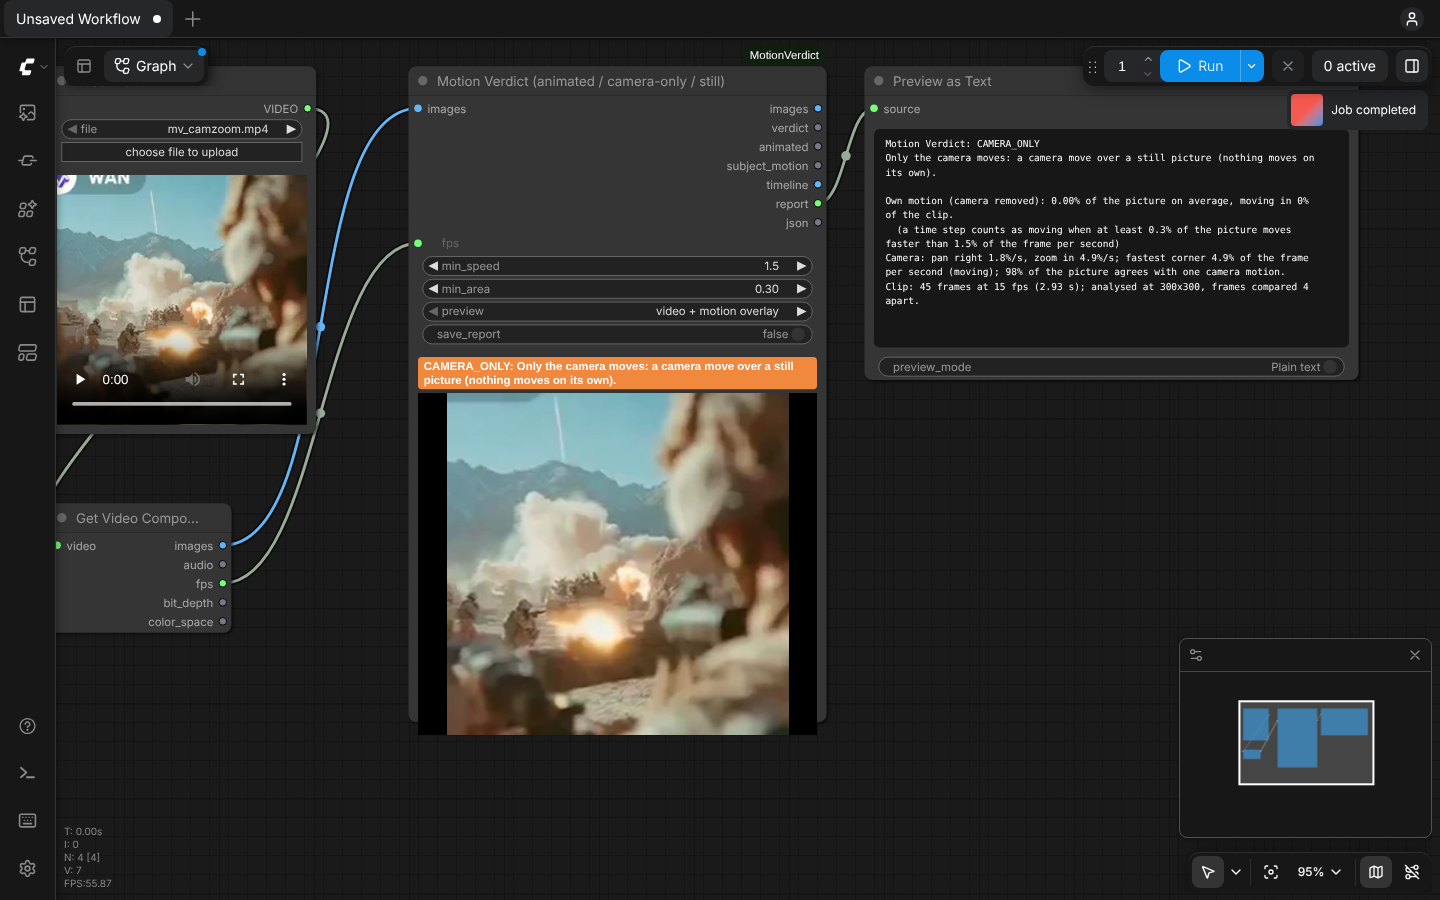
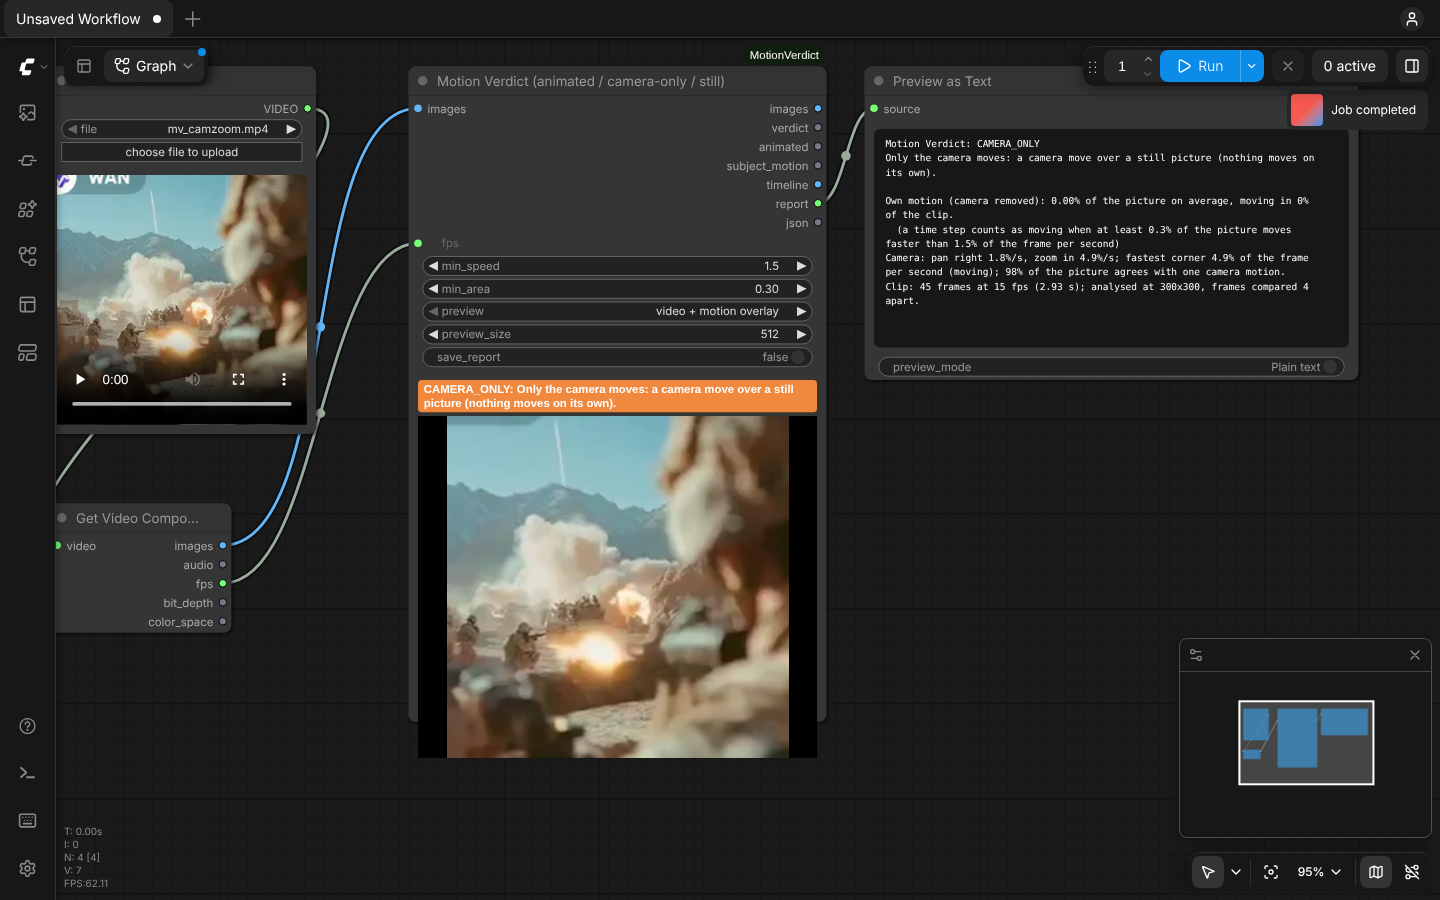
Preview size 256-1440 px (preview_size); disk-free preview verified
- New preview_size INT input (default 512, 256-1440, never upscales).
- Verified: a full run with save_report off writes no file anywhere; 1440x810 preview
  plays in the real UI. 28/28 unit tests pass. Example workflow re-exported from the UI.

Claude-Session: https://claude.ai/code/session_012XJGPmtVvewrCnuKrPcEJk

Changed region(s): [[0.2812, 0.3733, 0.5938, 0.84]]

diff --git a/tests/ui_run.js b/tests/ui_run.js
@@ -1,6 +1,7 @@
 // Drive the real ComfyUI frontend in headless Chromium (Playwright for Node).
 //
 //   node tests/ui_run.js <video in ComfyUI/input> <screenshot.png> [<exported_workflow.json>] [--url URL]
+//                        [--preview-size N]
 //
 // Builds Load Video -> Get Video Components -> Motion Verdict -> Preview Any in the page, exports the workflow
 // the way the UI saves it, queues it, waits for the verdict badge and the on-node preview video, takes a
@@ -11,6 +12,8 @@ const { chromium } = require("playwright");
 const args = process.argv.slice(2);
 const urlAt = args.indexOf("--url");
 const url = urlAt >= 0 ? args.splice(urlAt, 2)[1] : "http://127.0.0.1:8188";
+const sizeAt = args.indexOf("--preview-size");
+const previewSize = sizeAt >= 0 ? Number(args.splice(sizeAt, 2)[1]) : null;
 const [video, shot, wfPath] = args;
 const BADGE = /^(ANIMATED|PARTLY_ANIMATED|CAMERA_ONLY|STILL|UNKNOWN):/;
 
@@ -26,7 +29,7 @@ const BADGE = /^(ANIMATED|PARTLY_ANIMATED|CAMERA_ONLY|STILL|UNKNOWN):/;
   await page.waitForFunction(() => (window.app ?? window.comfyAPI?.app?.app)?.graph, null, { timeout: 120000 });
   await page.waitForTimeout(3000);
   for (let i = 0; i < 3; i++) await page.keyboard.press("Escape"); // close the first-run templates dialog
-  const wf = await page.evaluate((file) => {
+  const wf = await page.evaluate(([file, size]) => {
     const app = window.app ?? window.comfyAPI.app.app;
     app.graph.clear();
     const add = (type, x, y) => { const n = LiteGraph.createNode(type); n.pos = [x, y]; app.graph.add(n); return n; };
@@ -35,6 +38,7 @@ const BADGE = /^(ANIMATED|PARTLY_ANIMATED|CAMERA_ONLY|STILL|UNKNOWN):/;
     const mv = add("MotionVerdict", 400, 60);
     const show = add("PreviewAny", 880, 60);
     load.widgets.find((w) => w.name === "file").value = file;
+    if (size) mv.widgets.find((w) => w.name === "preview_size").value = size;
     load.connect(0, parts, 0);
     parts.connect(0, mv, 0);
     parts.connect(2, mv, mv.inputs.findIndex((i) => i.name === "fps"));
@@ -43,7 +47,7 @@ const BADGE = /^(ANIMATED|PARTLY_ANIMATED|CAMERA_ONLY|STILL|UNKNOWN):/;
     show.setSize([520, 300]);
     app.graph.setDirtyCanvas(true, true);
     return JSON.stringify(app.graph.serialize(), null, 1);
-  }, video);
+  }, [video, previewSize]);
   if (wfPath) fs.writeFileSync(wfPath, wf + "\n");
   await page.evaluate(() => (window.app ?? window.comfyAPI.app.app).queuePrompt(0, 1));
   let ok = true;

diff --git a/motion_verdict/node.py b/motion_verdict/node.py
@@ -15,7 +15,7 @@ class MotionVerdict:
         "global motion (pan, tilt, zoom, roll) and measures what still moves on its own. Verdict: animated / "
         "partly_animated / camera_only / still, plus an 'animated' BOOLEAN for gating seed batches, the "
         "subject-motion score, a timeline chart and a report (also as JSON). Optional in-memory preview on the "
-        "node with the moving parts tinted red. CPU friendly; works in API runs without a browser."
+        "node (256-1440 px, nothing saved to disk) with the moving parts tinted red. CPU friendly; works in API runs without a browser."
     )
     CATEGORY = "video/Motion Verdict"
     FUNCTION = "run"
@@ -49,15 +49,18 @@ class MotionVerdict:
                                        "tooltip": "A moment counts as 'moving' when at least this % of the "
                                                   "(textured) picture moves on its own."}),
                 "preview": (list(PREVIEW_MODES), {"default": PREVIEW_MODES[0],
-                                                  "tooltip": "Small preview on the node, encoded in memory. "
-                                                             "The overlay tints what moves on its own."}),
+                                                  "tooltip": "Preview on the node, encoded in memory (nothing is "
+                                                             "saved). The overlay tints what moves on its own."}),
+                "preview_size": ("INT", {"default": 512, "min": 256, "max": 1440, "step": 64,
+                                         "tooltip": "Longest side of the preview in pixels (never larger than "
+                                                    "the clip). Does not change the analysis."}),
                 "save_report": ("BOOLEAN", {"default": False,
                                             "tooltip": "Also save the JSON report in ComfyUI's output folder "
                                                        "(output/motion_verdict/)."}),
             },
         }
 
-    def run(self, images, fps, min_speed, min_area, preview, save_report):
+    def run(self, images, fps, min_speed, min_area, preview, preview_size, save_report):
         overlay = preview == PREVIEW_MODES[0]
         res, masks = analysis.analyze(images, fps, min_speed, min_area, keep_masks=overlay)
         text = report.text(res, min_speed, min_area)
@@ -67,7 +70,7 @@ class MotionVerdict:
         info = {"verdict": res.verdict, "headline": report.HEADLINES[res.verdict], "report": text,
                 "token": None, "saved": None}
         if preview != PREVIEW_MODES[2] and res.frames > 0:
-            info["token"] = PREVIEWS.put(encode_preview(images, fps, masks, res.step))
+            info["token"] = PREVIEWS.put(encode_preview(images, fps, preview_size, masks, res.step))
         if save_report:
             info["saved"] = save_json(data)
         return {"ui": {"motion_verdict": [info]},

diff --git a/tests/test_motion_verdict.py b/tests/test_motion_verdict.py
@@ -202,7 +202,7 @@ def test_nan_inf_counted_and_input_untouched():
     v[3, 10:20, 10:20, 0] = float("nan")
     v[5, 0, 0, 1] = float("inf")
     before = v.clone()
-    out = MotionVerdict().run(v, FPS, MIN_SPEED, MIN_AREA, "off", False)["result"]
+    out = MotionVerdict().run(v, FPS, MIN_SPEED, MIN_AREA, "off", 512, False)["result"]
     assert out[0] is v
     assert torch.equal(torch.isnan(v), torch.isnan(before)) and torch.equal(v.nan_to_num(), before.nan_to_num())
     data = json.loads(out[6])
@@ -244,7 +244,7 @@ def test_other_frame_rates():
 
 def test_node_outputs_and_passthrough():
     v = synth.clip(n=33, h=180, w=320, subject=PATCH)
-    out = MotionVerdict().run(v, FPS, MIN_SPEED, MIN_AREA, "video + motion overlay", False)
+    out = MotionVerdict().run(v, FPS, MIN_SPEED, MIN_AREA, "video + motion overlay", 512, False)
     images, verdict, animated, subject, timeline, text, data = out["result"]
     assert images is v
     assert verdict == "animated" and animated is True and isinstance(subject, float)
@@ -263,9 +263,24 @@ def test_node_outputs_and_passthrough():
 
 def test_node_preview_off_and_animated_flag_false():
     v = synth.clip(n=33, h=180, w=320, cam=lambda i: (0, 0, 1.05 ** (i / FPS), 0))
-    out = MotionVerdict().run(v, FPS, MIN_SPEED, MIN_AREA, "off", False)
+    out = MotionVerdict().run(v, FPS, MIN_SPEED, MIN_AREA, "off", 512, False)
     assert out["ui"]["motion_verdict"][0]["token"] is None
     assert out["result"][1] == "camera_only" and out["result"][2] is False
+
+
+def test_preview_size_range_and_no_upscale():
+    def size_of(clip):
+        with av.open(io.BytesIO(clip)) as c:
+            s = c.streams.video[0]
+            return s.width, s.height, sum(1 for _ in c.decode(s))
+
+    big = synth.clip(n=9, h=1080, w=1920, subject=PATCH)
+    for side, expect in ((1440, (1440, 810)), (256, (256, 144))):
+        out = MotionVerdict().run(big, FPS, MIN_SPEED, MIN_AREA, "video + motion overlay", side, False)
+        assert size_of(PREVIEWS.get(out["ui"]["motion_verdict"][0]["token"])) == (*expect, 9), side
+    small = synth.clip(n=9, h=181, w=321)  # odd size, smaller than the preview: kept, rounded down to even
+    out = MotionVerdict().run(small, FPS, MIN_SPEED, MIN_AREA, "video", 1440, False)
+    assert size_of(PREVIEWS.get(out["ui"]["motion_verdict"][0]["token"])) == (320, 180, 9)
 
 
 def test_preview_store_evicts_oldest():

diff --git a/motion_verdict/preview.py b/motion_verdict/preview.py
@@ -1,4 +1,4 @@
-"""Small H.264 preview of the clip, encoded in memory (nothing is written to disk).
+"""H.264 preview of the clip, encoded in memory (nothing is written to disk).
 
 Optionally the pixels that move on their own (camera motion removed) are tinted red.
 """
@@ -12,14 +12,14 @@ import torch.nn.functional as F
 
 from . import frames
 
-LONG_SIDE = 512
 CRF = "28"
 TINT = torch.tensor([1.0, 0.15, 0.1])
 TINT_ALPHA = 0.55
 
 
-def preview_size(height, width):
-    scale = min(1.0, LONG_SIDE / max(height, width))
+def preview_size(height, width, long_side):
+    """Preview size: longest side = long_side, never upscaled, even numbers (needed by yuv420p)."""
+    scale = min(1.0, long_side / max(height, width))
     return max(2, int(height * scale) // 2 * 2), max(2, int(width * scale) // 2 * 2)
 
 
@@ -30,10 +30,13 @@ def _rgb(chunk):
     return x[..., :1].expand(*x.shape[:-1], 3)
 
 
-def encode(images, fps, masks=None, step=1):
-    """IMAGE (N, H, W, C) -> MP4 bytes. masks: (N - step, h, w) bool from the analysis, or None."""
+def encode(images, fps, long_side, masks=None, step=1):
+    """IMAGE (N, H, W, C) -> MP4 bytes, longest side <= long_side. masks: (N - step, h, w) bool or None.
+
+    Frames are shrunk and encoded one chunk at a time, so memory stays bounded at any preview size.
+    """
     n, height, width, channels = images.shape
-    ph, pw = preview_size(height, width)
+    ph, pw = preview_size(height, width, long_side)
     buf = io.BytesIO()
     rate = Fraction(float(fps)).limit_denominator(1001)
     with av.open(buf, mode="w", format="mp4",

diff --git a/tests/api_run.py b/tests/api_run.py
@@ -28,7 +28,7 @@ def workflow(video):
         "2": {"class_type": "GetVideoComponents", "inputs": {"video": ["1", 0]}},
         "3": {"class_type": "MotionVerdict", "inputs": {
             "images": ["2", 0], "fps": ["2", 2], "min_speed": 1.5, "min_area": 0.3,
-            "preview": "video + motion overlay", "save_report": True}},
+            "preview": "video + motion overlay", "preview_size": 512, "save_report": True}},
         "4": {"class_type": "PreviewAny", "inputs": {"source": ["3", 5]}},
         "5": {"class_type": "SaveImage", "inputs": {"images": ["3", 4], "filename_prefix": "motion_verdict/timeline"}},
     }

diff --git a/docs/DESIGN.md b/docs/DESIGN.md
@@ -32,6 +32,7 @@ Node id `MotionVerdict` · display name "Motion Verdict (animated / camera-only 
 | `min_speed` | FLOAT | 1.5 | 0.1-50 | % of the frame per second a pixel must move, after camera removal, to count |
 | `min_area` | FLOAT | 0.3 | 0.01-50 | % of the textured picture that must move for a time step to count as moving |
 | `preview` | COMBO | `video + motion overlay` | `video + motion overlay`, `video`, `off` | on-node preview |
+| `preview_size` | INT | 512 | 256-1440, step 64 | longest side of the preview (never upscaled; even sizes for yuv420p) |
 | `save_report` | BOOLEAN | False | | also write the JSON to `output/motion_verdict/MotionVerdict_#####_.json` |
 
 | # | Output | Type | Content |
@@ -139,8 +140,9 @@ All thresholds are tuned on synthetic clips and on clips derived from real AI vi
 - Pair processing holds 32 pairs at a time: warped frames, tiles, FFTs, the Gauss-Newton Jacobian
   (32 × 6 × 57,600 floats = 44 MB).
 - Moving-pixel masks (bool, analysis size) are kept only when the overlay preview is on.
-- The preview is encoded while streaming: one chunk of frames is downscaled to ≤ 512 px and encoded, then
-  dropped. The finished MP4 lives in an in-memory store: 16 clips / 256 MB, least recently used out first.
+- The preview is encoded while streaming: one chunk of frames is downscaled to ≤ `preview_size` (256-1440 px)
+  and encoded, then dropped. Measured on 81 frames of 1080p: 0.40 MB at 1440 px; the node adds 3.3 s over the
+  512 px setting. The finished MP4 lives in an in-memory store: 16 clips / 256 MB, least recently used out first.
 - Nothing is written to disk unless `save_report` is on, and then only into ComfyUI's output folder.
 
 ## 7. Calibration data (what was actually measured)

diff --git a/tests/RESULTS.md b/tests/RESULTS.md
@@ -33,9 +33,10 @@ PASS  test_long_clip_bounded_and_fast  (18.1s)
 PASS  test_other_frame_rates  (4.0s)
 PASS  test_node_outputs_and_passthrough  (0.8s)
 PASS  test_node_preview_off_and_animated_flag_false  (0.7s)
+PASS  test_preview_size_range_and_no_upscale  (2.7s)
 PASS  test_preview_store_evicts_oldest  (0.0s)
 
-27 passed, 0 failed, 50s
+28 passed, 0 failed, 59s
 ```
 
 Speed on 4 CPU cores:
@@ -136,3 +137,19 @@ fit cached. The tables in sections 2-3 come from the final, uncached run.
     on-node `<video>` (blob URL, `readyState ≥ 2`).
   - Every console 404 came from ComfyUI's own requests (user.css, userdata, update check, template model
     downloads). None came from this node.
+
+## 5. Preview: disk-free and 256-1440 px
+
+- **No disk writes.**
+  - A full ComfyUI run (Load Video → Get Video Components → Motion Verdict, `save_report` off) returned
+    `success`.
+  - The 204 KB preview MP4 was served from memory by `/motion_verdict/preview/<token>`.
+  - `find / -xdev -newer <mark>` listed **no file created or changed anywhere on the disk** during the run
+    (logs excluded), including ComfyUI's `temp/` and `output/`.
+- **Preview size.** `test_preview_size_range_and_no_upscale`:
+  - 1080p input → 1440×810 at 1440 and 256×144 at 256;
+  - a 321×181 input stays 320×180 (no upscale; even sizes).
+- **Cost.** 81 frames of 1080p take 7.1 s in total at 512 px and 10.4 s at 1440 px; the preview is 0.40 MB at
+  1440 px. Peak memory did not rise above what building the 2 GB test clip itself had already used.
+- **In the browser.** Headless Chromium, real UI, 1080p clip, `preview_size` 1440: the on-node `<video>` plays
+  at 1440×810, 3.06 s, verdict `ANIMATED`, and only the moving patch is tinted.

diff --git a/README.md b/README.md
@@ -62,7 +62,8 @@ exported from the ComfyUI UI; pick your own clip in *Load Video*.
 | `fps` | 16 | frames per second (Wan 16, LTX 24/25, Hunyuan 24) |
 | `min_speed` | 1.5 | % of the frame per second that a pixel must move, after the camera is removed, to count. Raise it for grainy footage. |
 | `min_area` | 0.3 | % of the (textured) picture that must move for a moment to count as "moving" |
-| `preview` | video + motion overlay | on-node preview: `video + motion overlay`, `video` or `off` |
+| `preview` | video + motion overlay | on-node preview: `video + motion overlay`, `video` or `off`. Encoded in memory; nothing is saved, not even to `temp/` |
+| `preview_size` | 512 | longest side of the preview, 256-1440 px (never larger than the clip). Does not change the analysis |
 | `save_report` | off | also save the JSON report to `ComfyUI/output/motion_verdict/` |
 
 ### Outputs
@@ -134,7 +135,9 @@ or on real failed generations; none were available.
 - ComfyUI (tested with 0.43.0, frontend 1.57.6).
 - Only `torch`, `numpy` and `av` (PyAV), which ComfyUI already installs. No other pip packages.
 - Works on CPU-only machines. No network access.
-- Writes nothing to disk unless `save_report` is on, and then only into ComfyUI's output folder.
+- Writes nothing to disk unless `save_report` is on, and then only into ComfyUI's output folder. Tested: a run with
+  `save_report` off created or changed no file anywhere on the disk; the preview MP4 was served from memory.
+- The preview lives in RAM (the last 16 previews, up to 256 MB in total). After a ComfyUI restart, run the node again.
 
 ## Install
 `cd ComfyUI/custom_nodes` and `git clone` this repository. Then restart ComfyUI.

diff --git a/CHANGELOG.md b/CHANGELOG.md
@@ -9,6 +9,7 @@ First release of **Motion Verdict** (pack `comfyui-motion-verdict`, node id `Mot
   a `subject_motion` FLOAT, a `timeline` IMAGE, a `report` STRING and a `json` STRING. Stalls (≥ 1 s without
   own motion) are listed with frame numbers.
 - Camera numbers in the report: pan, tilt, zoom, roll, plus how much of the picture agrees with them.
-- Optional on-node preview, encoded to H.264 in memory, with the parts that move on their own tinted red.
+- Optional on-node preview, encoded to H.264 in memory (nothing saved, not even to `temp/`), 256-1440 px
+  (`preview_size`), with the parts that move on their own tinted red.
 - Optional `save_report`: the JSON also goes to `output/motion_verdict/`.
 - Only torch, numpy and av. CPU only is fine. No network access.
